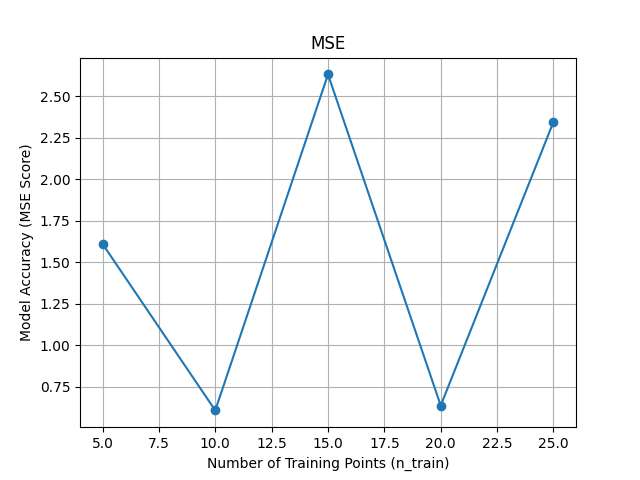
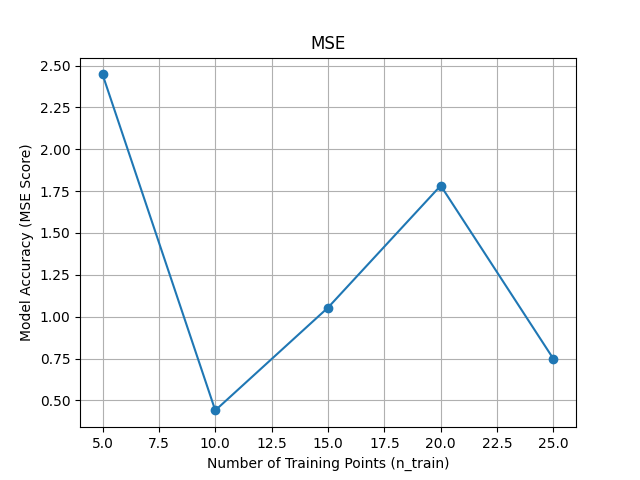
added strat sampling for train split

diff --git a/model_poly.py b/model_poly.py
@@ -7,30 +7,13 @@ from sklearn.metrics import r2_score, mean_squared_error
 import matplotlib.pyplot as plt
 import numpy as np
 import seaborn as sns
+from utils import stratified_sample, annotate
 
-# Function to add red border to maximum value in each row
-def annotate(ax, data, points, color='red'):
-    """
-    Annotate the heatmap with a rectangle around the training points.
-
-    Parameters:
-    ax (matplotlib.axes._subplots.AxesSubplot): The axes on which to annotate.
-    data (pandas.DataFrame): The dataframe used for the heatmap, indexed by 'Latency' and 'Scale'.
-    points (pandas.DataFrame): The training points to highlight.
-    color (str): The color of the rectangles.
-    """
-    for index, row in points.iterrows():
-        # Find the position of the training point in the heatmap
-        row_idx = data.index.get_loc(row['latency'])  # Adjusted for correct key
-        col_idx = data.columns.get_loc(row['scale'])  # Adjusted for correct key
-        
-        # Add a rectangle around the corresponding cell in the heatmap
-        ax.add_patch(plt.Rectangle((col_idx, row_idx), 1, 1, fill=False, edgecolor=color, lw=3))
 
 # Read in data file as a pandas dataframe
 data = pd.read_csv('data_files/user_jason/metric_df.csv')
 
-# Extract 'latency' and 'scale' as X, and 'throughput' as Y.
+# Extract full dataset input 'latency' and 'scale' as X, and 'throughput' as Y.
 X = data[['latency', 'scale']]
 Y = data['throughput']
 
@@ -40,12 +23,18 @@ n = len(data)
 # Initialize lists to store model accuracies and corresponding n_train values
 r2_scores = []
 mse_scores = []
-n_train_values = []
+# n_train_values = []
 
 # Repeat the process for n_train = 1 to n - 2
-for n_train in range(1, n-2):
+n_train_values = range(1, 27) # [4, 8, 12, 16, 20, 24]
+for n_train in n_train_values:
     # Split the data into training and test sets
-    X_train, X_test, Y_train, Y_test = train_test_split(X, Y, train_size=n_train/n)
+    train_set, test_set = stratified_sample(data, n_train)
+    X_train = train_set[['latency', 'scale']]
+    X_test = test_set[['latency', 'scale']]
+    Y_train = train_set['throughput']
+    Y_test = test_set['throughput']
+    # X_train, X_test, Y_train, Y_test = train_test_split(X, Y, train_size=n_train/n)
     # print("train\n", X_train)
     # print("\ntest\n", X_test)
     # Perform polynomial regression
@@ -67,47 +56,44 @@ for n_train in range(1, n-2):
     Y_pred = model.predict(X_poly)
     data["Y_pred"] = Y_pred
 
-    # Store the results
-    n_train_values.append(n_train)
+    if mse_scores[-1] > 10:
 
-    #if mse_scores[-1] > 100:
+        # Plotting with the annotate function to highlight training points
+        fig, ax = plt.subplots(1, 3, figsize=(18, 8))
 
-    # Plotting with the annotate function to highlight training points
-    fig, ax = plt.subplots(1, 3, figsize=(18, 8))
+        # Original data heatmap with all points highlighted (now all are training points)
+        original_data = data.pivot(
+            index='latency', columns='scale', values='throughput'
+        )
+        sns.heatmap(original_data, cmap='YlGnBu', ax=ax[0], annot=True)
+        annotate(ax[0], original_data, X_train, color='red')
+        ax[0].set_title('Original Data')
+        ax[0].set_xlabel('Scale')
+        ax[0].set_ylabel('Latency')
 
-    # Original data heatmap with all points highlighted (now all are training points)
-    original_data = data.pivot(
-        index='latency', columns='scale', values='throughput'
-    )
-    sns.heatmap(original_data, cmap='YlGnBu', ax=ax[0], annot=True)
-    annotate(ax[0], original_data, X_train, color='red')
-    ax[0].set_title('Original Data')
-    ax[0].set_xlabel('Scale')
-    ax[0].set_ylabel('Latency')
+        # Full predicted data heatmap (prediction on the entire dataset)
+        predicted_data = data.pivot(
+            index='latency', columns='scale', values='Y_pred'
+        )
+        sns.heatmap(predicted_data, cmap='YlGnBu', ax=ax[1], annot=True)
+        annotate(ax[1], predicted_data, X_train, color='red')
+        ax[1].set_title('Predicted Data')
+        ax[1].set_xlabel('Scale')
+        ax[1].set_ylabel('Latency')
 
-    # Full predicted data heatmap (prediction on the entire dataset)
-    predicted_data = data.pivot(
-        index='latency', columns='scale', values='Y_pred'
-    )
-    sns.heatmap(predicted_data, cmap='YlGnBu', ax=ax[1], annot=True)
-    annotate(ax[1], predicted_data, X_train, color='red')
-    ax[1].set_title('Predicted Data')
-    ax[1].set_xlabel('Scale')
-    ax[1].set_ylabel('Latency')
+        # Plot residuals
+        data["residual"] = np.abs(data["throughput"] - data["Y_pred"])
+        residual = data.pivot(
+            index='latency', columns='scale', values='residual'
+        )
+        sns.heatmap(residual, cmap='YlGnBu', ax=ax[2], annot=True)
+        annotate(ax[2], residual, X_train, color='red')
+        ax[2].set_title('Residuals')
+        ax[2].set_xlabel('Scale')
+        ax[2].set_ylabel('Latency')
 
-    # Plot residuals
-    data["residual"] = np.abs(data["throughput"] - data["Y_pred"])
-    residual = data.pivot(
-        index='latency', columns='scale', values='residual'
-    )
-    sns.heatmap(residual, cmap='YlGnBu', ax=ax[2], annot=True)
-    annotate(ax[2], residual, X_train, color='red')
-    ax[2].set_title('Residuals')
-    ax[2].set_xlabel('Scale')
-    ax[2].set_ylabel('Latency')
-
-    plt.tight_layout()
-    plt.show()
+        plt.tight_layout()
+        plt.show()
 
 # Plotting the results
 fig, axes = plt.subplots(1, 2, figsize=(12, 6))
@@ -123,5 +109,5 @@ axes[1].set_xlabel('Number of Training Points (n_train)')
 axes[1].set_ylabel('Model Accuracy (MSE Score)')
 axes[1].grid(True)
 
-plt.savefig('figures/poly2_model_acc_vs_n_train(2).png')
+plt.savefig('figures/poly2_model_acc_vs_n_train_stratsplit(2).png')
 plt.show()

diff --git a/model_gpr.py b/model_gpr.py
@@ -8,25 +8,7 @@ from sklearn.model_selection import train_test_split
 from sklearn.metrics import mean_squared_error
 from matplotlib import pyplot as plt
 import seaborn as sns
-
-# Function to add red border to maximum value in each row
-def annotate(ax, data, points, color='red'):
-    """
-    Annotate the heatmap with a rectangle around the training points.
-
-    Parameters:
-    ax (matplotlib.axes._subplots.AxesSubplot): The axes on which to annotate.
-    data (pandas.DataFrame): The dataframe used for the heatmap, indexed by 'Latency' and 'Scale'.
-    points (pandas.DataFrame): The training points to highlight.
-    color (str): The color of the rectangles.
-    """
-    for index, row in points.iterrows():
-        # Find the position of the training point in the heatmap
-        row_idx = data.index.get_loc(row['latency'])  # Adjusted for correct key
-        col_idx = data.columns.get_loc(row['scale'])  # Adjusted for correct key
-        
-        # Add a rectangle around the corresponding cell in the heatmap
-        ax.add_patch(plt.Rectangle((col_idx, row_idx), 1, 1, fill=False, edgecolor=color, lw=3))
+from utils import stratified_sample, annotate
 
 
 # Read in data
@@ -40,11 +22,15 @@ mse_scores = []
 
 # n_train = 10
 n = len(metric_df)
-n_train_values = [5, 10, 15, 20, 25] #range(1, 26)
+n_train_values = range(2, 27)
 for n_train in n_train_values:
     # Splitting the data into training and testing sets
-    X_train, X_test, Y_train, Y_test = train_test_split(X, Y, train_size=n_train/n)
-
+    # X_train, X_test, Y_train, Y_test = train_test_split(X, Y, train_size=n_train/n)
+    train_set, test_set = stratified_sample(metric_df, n_train)
+    X_train = train_set[['latency', 'scale']]
+    X_test = test_set[['latency', 'scale']]
+    Y_train = train_set['throughput']
+    Y_test = test_set['throughput']
     #print(X_train)
     #print(X_test)
 
@@ -97,39 +83,39 @@ for n_train in n_train_values:
 
 
 
-    # Visualization
-    fig, axes = plt.subplots(2, 2, figsize=(12, 9))
-    # Plot original data
-    # Plot heatmap for average movement time
-    heatmap_TP = metric_df.pivot(
-            index='latency', columns='scale', values='throughput')
-    #print(heatmap_TP)
-    sns.heatmap(heatmap_TP, ax=axes[0, 0], cmap="YlGnBu", annot=True, fmt='.3g')
-    axes[0, 0].set_title('Throughput vs. Latency and Scale')
-    annotate(axes[0, 0], heatmap_TP, X_train)
+    # # Visualization
+    # fig, axes = plt.subplots(2, 2, figsize=(12, 9))
+    # # Plot original data
+    # # Plot heatmap for average movement time
+    # heatmap_TP = metric_df.pivot(
+    #         index='latency', columns='scale', values='throughput')
+    # #print(heatmap_TP)
+    # sns.heatmap(heatmap_TP, ax=axes[0, 0], cmap="YlGnBu", annot=True, fmt='.3g')
+    # axes[0, 0].set_title('Throughput vs. Latency and Scale')
+    # annotate(axes[0, 0], heatmap_TP, X_train)
 
-    heatmap_pred_TP = metric_df.pivot(
-        index='latency', columns='scale', values='throughput_pred')
-    sns.heatmap(heatmap_pred_TP, ax=axes[0, 1], cmap="YlGnBu", annot=True, fmt='.3g')
-    axes[0, 1].set_title('Mean Predicted Throughput vs. Latency and Scale')
-    annotate(axes[0, 1], heatmap_pred_TP, X_train)
+    # heatmap_pred_TP = metric_df.pivot(
+    #     index='latency', columns='scale', values='throughput_pred')
+    # sns.heatmap(heatmap_pred_TP, ax=axes[0, 1], cmap="YlGnBu", annot=True, fmt='.3g')
+    # axes[0, 1].set_title('Mean Predicted Throughput vs. Latency and Scale')
+    # annotate(axes[0, 1], heatmap_pred_TP, X_train)
 
-    heatmap_pred_std = metric_df.pivot(
-        index='latency', columns='scale', values='throughput_pred_std')
-    sns.heatmap(heatmap_pred_std, ax=axes[1, 0], cmap="YlGnBu", annot=True, fmt='.3g')
-    axes[1, 0].set_title('Throughput Prediction STD vs. Latency and Scale')
-    annotate(axes[1, 0], heatmap_pred_std, X_train)
+    # heatmap_pred_std = metric_df.pivot(
+    #     index='latency', columns='scale', values='throughput_pred_std')
+    # sns.heatmap(heatmap_pred_std, ax=axes[1, 0], cmap="YlGnBu", annot=True, fmt='.3g')
+    # axes[1, 0].set_title('Throughput Prediction STD vs. Latency and Scale')
+    # annotate(axes[1, 0], heatmap_pred_std, X_train)
 
-    metric_df["residual"] = np.abs(metric_df["throughput"] - metric_df["throughput_pred"])
-    heatmap_res = metric_df.pivot(
-        index='latency', columns='scale', values='residual')
-    sns.heatmap(heatmap_res, ax=axes[1, 1], cmap="YlGnBu", annot=True, fmt='.3g')
-    axes[1, 1].set_title('Throughput Prediction Residuals vs. Latency and Scale')
-    annotate(axes[1, 1], heatmap_res, X_train)
+    # metric_df["residual"] = np.abs(metric_df["throughput"] - metric_df["throughput_pred"])
+    # heatmap_res = metric_df.pivot(
+    #     index='latency', columns='scale', values='residual')
+    # sns.heatmap(heatmap_res, ax=axes[1, 1], cmap="YlGnBu", annot=True, fmt='.3g')
+    # axes[1, 1].set_title('Throughput Prediction Residuals vs. Latency and Scale')
+    # annotate(axes[1, 1], heatmap_res, X_train)
 
-    plt.tight_layout()
-    # plt.savefig('figures/gpr_results.png')
-    plt.show()
+    # plt.tight_layout()
+    # # plt.savefig('figures/gpr_results.png')
+    # plt.show()
 
 # Plot accuracy vs. n_train
 plt.figure()
@@ -139,5 +125,5 @@ plt.xlabel('Number of Training Points (n_train)')
 plt.ylabel('Model Accuracy (MSE Score)')
 plt.grid(True)
 
-plt.savefig('figures/gpr_model_acc_vs_n_train(5).png')
+plt.savefig('figures/gpr_model_acc_vs_n_train_stratsplit(3).png')
 plt.show()

diff --git a/utils.py b/utils.py
@@ -1,0 +1,43 @@
+import pandas as pd
+import numpy as np
+import matplotlib.pyplot as plt
+
+# Stratified sampling for smarter training set split
+def stratified_sample(data, n_train):
+    grouped = data.groupby('latency')
+    num_col_latency = len(grouped)
+    k = n_train // num_col_latency
+
+    train_samples = pd.DataFrame()
+    for name, group in grouped:
+        sampled_group = group.sample(n=min(k, len(group)))
+        train_samples = pd.concat([train_samples, sampled_group])
+        n_train -= len(sampled_group)
+    
+    remaining_points = data[~data.index.isin(train_samples.index)]
+    if n_train > 0 and not remaining_points.empty:
+        additional_samples = remaining_points.sample(n=n_train, random_state=42)
+        train_samples = pd.concat([train_samples, additional_samples])
+    
+    test_samples = data[~data.index.isin(train_samples.index)]
+    # print(train_samples)
+    return train_samples, test_samples
+
+# Function to add red border to maximum value in each row
+def annotate(ax, data, points, color='red'):
+    """
+    Annotate the heatmap with a rectangle around the training points.
+
+    Parameters:
+    ax (matplotlib.axes._subplots.AxesSubplot): The axes on which to annotate.
+    data (pandas.DataFrame): The dataframe used for the heatmap, indexed by 'Latency' and 'Scale'.
+    points (pandas.DataFrame): The training points to highlight.
+    color (str): The color of the rectangles.
+    """
+    for index, row in points.iterrows():
+        # Find the position of the training point in the heatmap
+        row_idx = data.index.get_loc(row['latency'])  # Adjusted for correct key
+        col_idx = data.columns.get_loc(row['scale'])  # Adjusted for correct key
+        
+        # Add a rectangle around the corresponding cell in the heatmap
+        ax.add_patch(plt.Rectangle((col_idx, row_idx), 1, 1, fill=False, edgecolor=color, lw=3))
